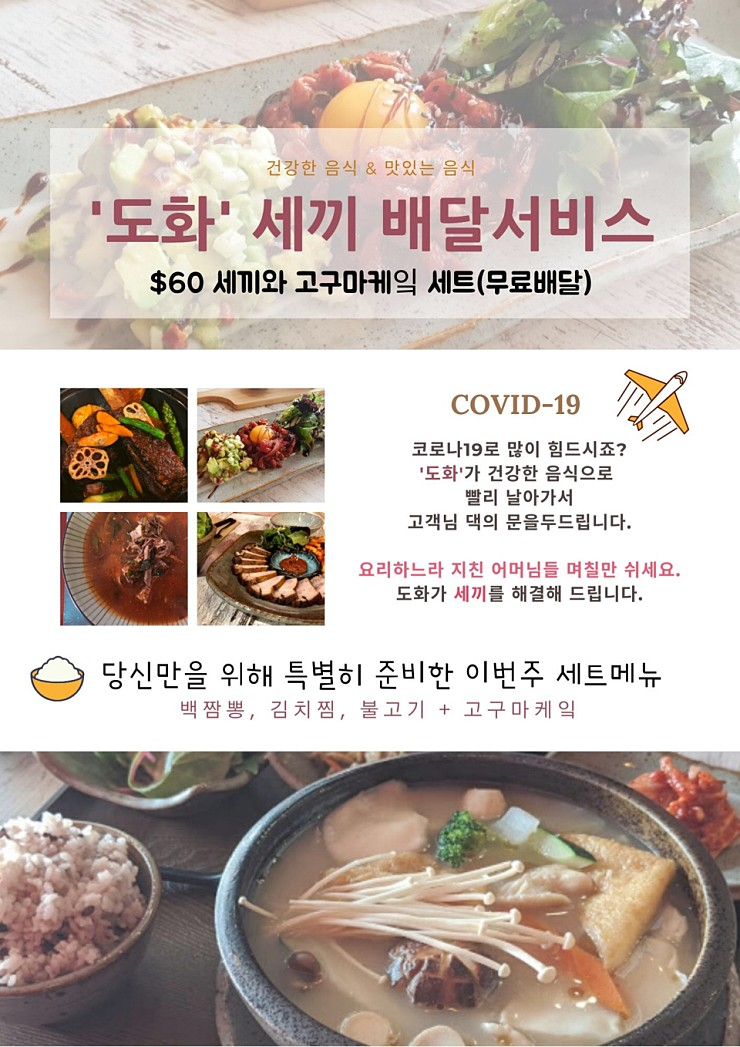
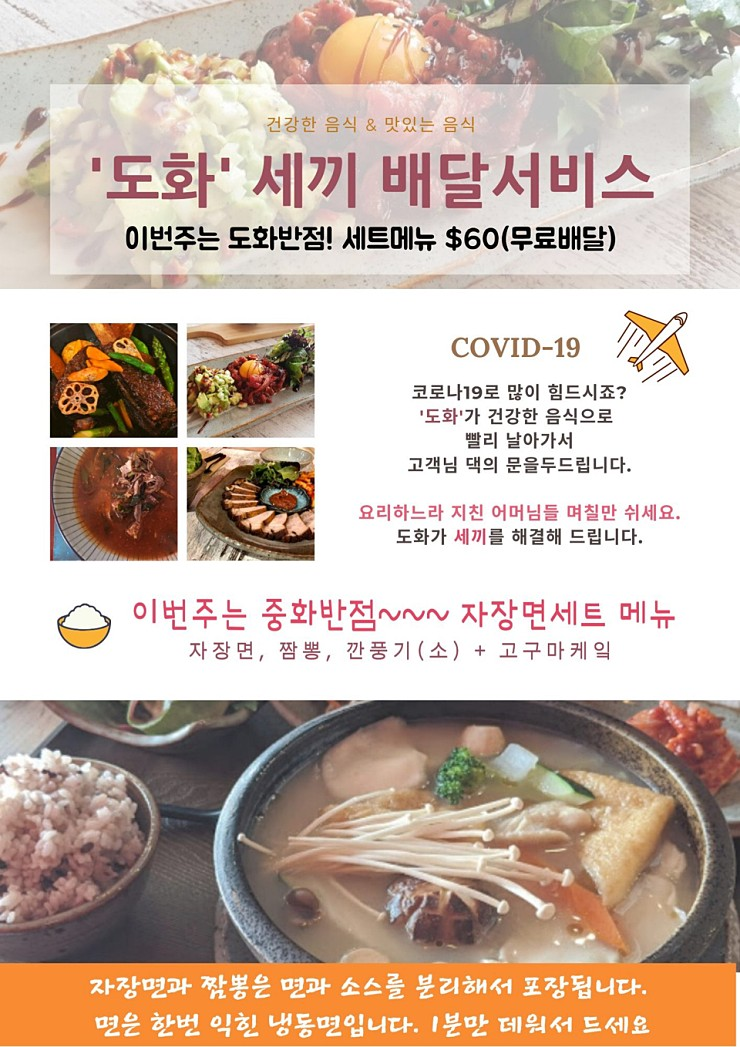
chage menu and image

diff --git a/content/posts/dohwa/index.md b/content/posts/dohwa/index.md
@@ -4,8 +4,8 @@ folder: "dohwa"
 cover: "./main.jpg"
 title: "도화"
 published: true
-tags: ["치즈케익", "세끼배달", "갈비찜", "보쌈"]
-date: "2020-04-10T15:20:00"
+tags: ["짬뽕", "깐풍기", "짜장면", "고구마케익"]
+date: "2020-04-21T15:20:00"
 ---
 
 ## 주문
